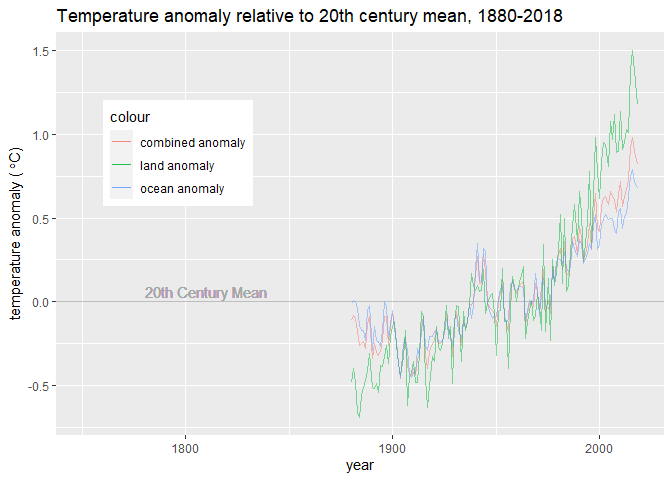
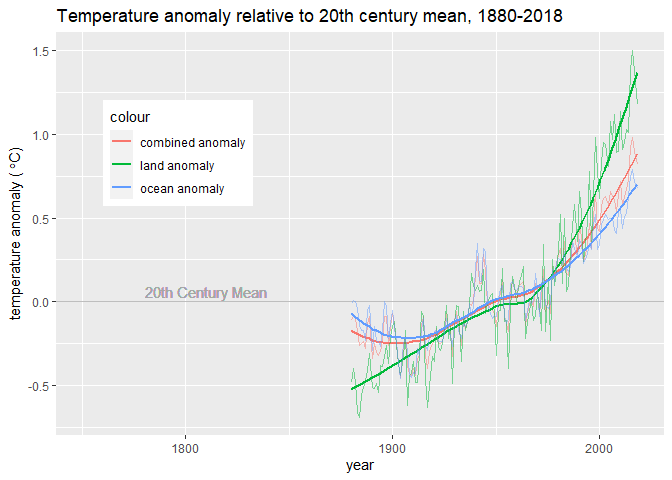
Modified temp_anomaly plot by adding geom_smooth curve to each line, resulting in change to analysis.R, report.Rmd, report.md, and report file for plot, also changed name of historic-co2-1.png to historic-co2-800000-years-1.png

diff --git a/report.md b/report.md
@@ -67,7 +67,7 @@ We see natural cycles of CO<sub>2</sub> increase and decrease lasting
 50,000 to 100,000 years per cycle, with the decrease happening more
 slowly than the increase, and a sharp spike upward in recent history:
 
-![](report_files/figure-gfm/historic-co2-1.png)<!-- -->
+![](report_files/figure-gfm/historic-co2-800000-years-1.png)<!-- -->
 
 Zooming in on the period around 790,000 years ago, we see that it took
 roughly 10,000 years for CO<sub>2</sub> levels to rise from 200 ppmv to
